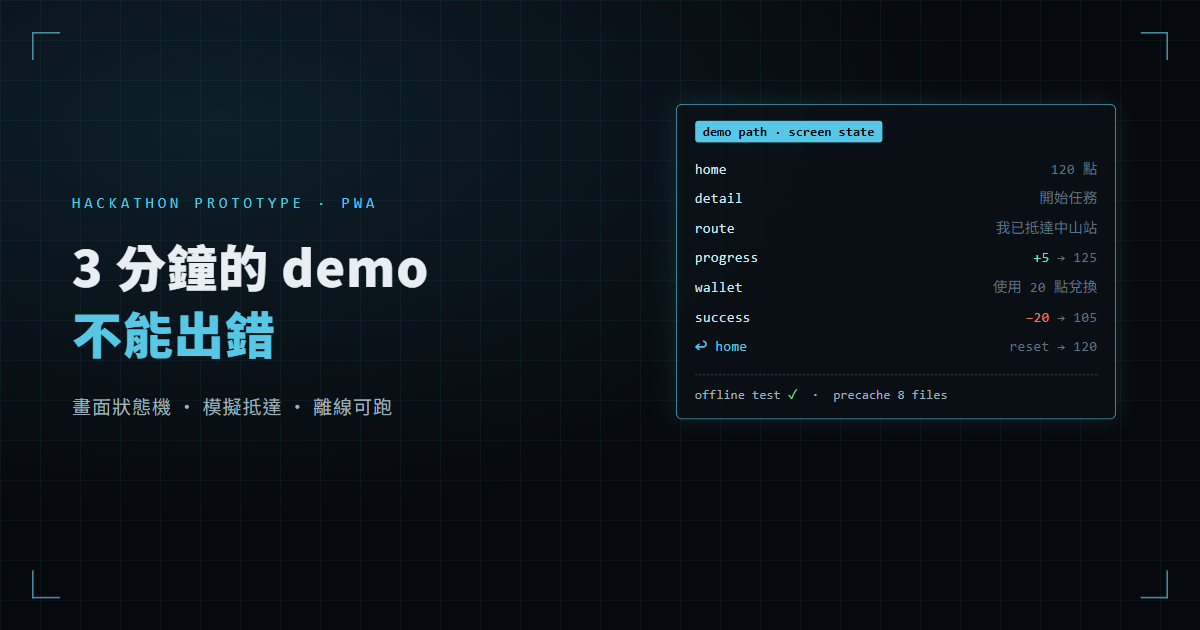
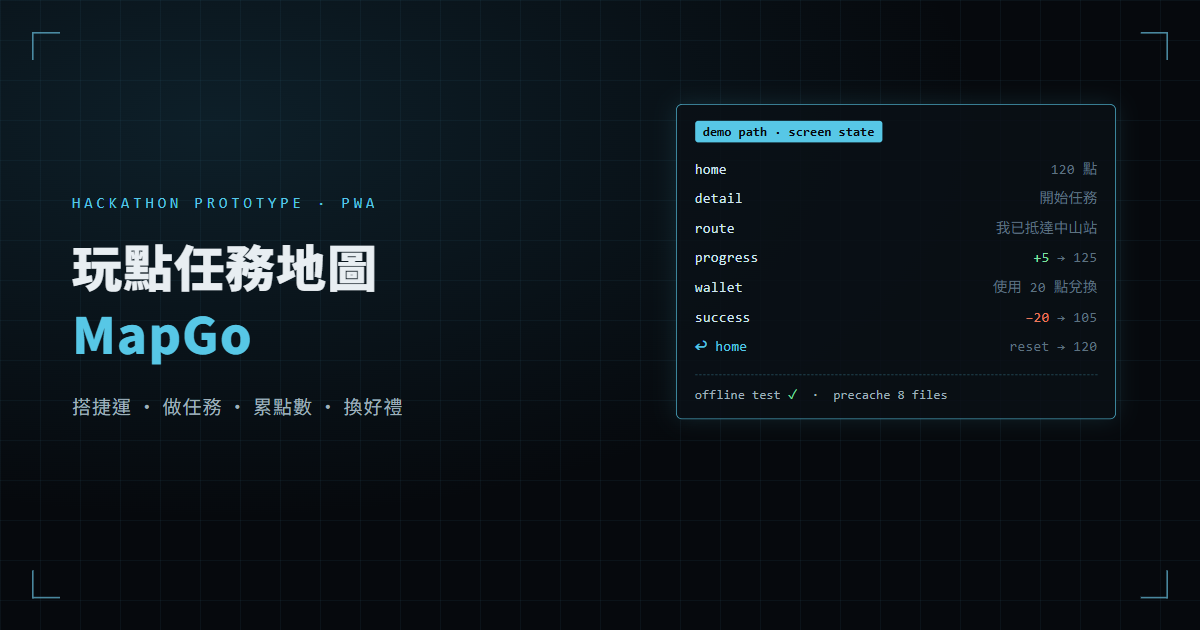
fix(posts): MapGo — use the README title; credit the team entry
- title and cover now use the repo README name and tagline
- the hackathon was a team entry; the prototype itself was built solo

Changed region(s): [[0.0617, 0.3619, 0.37, 0.573], [0.0617, 0.6333, 0.3392, 0.6635]]

diff --git a/blog/source/_posts/mapgo-hackathon.md b/blog/source/_posts/mapgo-hackathon.md
@@ -1,11 +1,13 @@
 ---
-title: 3 分鐘的 demo 不能出錯：一個黑客松 prototype 的設計取捨
+title: 玩點任務地圖 MapGo：台北捷運任務點數平台
 date: 2026-09-28 12:00:00
 tags: [side project, React, TypeScript, PWA, Hackathon]
 cover: /images/mapgo-cover.png
 ---
 
-今年我一個人參加了一場黑客松，題目圍繞台北捷運的「捷運點」。我做的是「玩點任務地圖」（MapGo）：搭捷運去指定商圈完成任務、累積捷運點，再拿點數兌換合作店家的優惠。
+> 台北捷運任務點數平台 — 搭捷運、做任務、累點數、換好禮
+
+今年我跟隊友組隊參加了一場黑客松，題目圍繞台北捷運的「捷運點」。我們提的是「玩點任務地圖」（MapGo）：搭捷運去指定商圈完成任務、累積捷運點，再拿點數兌換合作店家的優惠。這個 prototype 是我一個人做的。
 
 它是一個 prototype：沒有後端、沒有真的點數，優惠跟兌換碼也都是示意。所以這篇不談點子本身，而是談一件更實際的事：**一個要拿去現場 demo 的 prototype，要怎麼設計才不會在台上出錯。**
 
